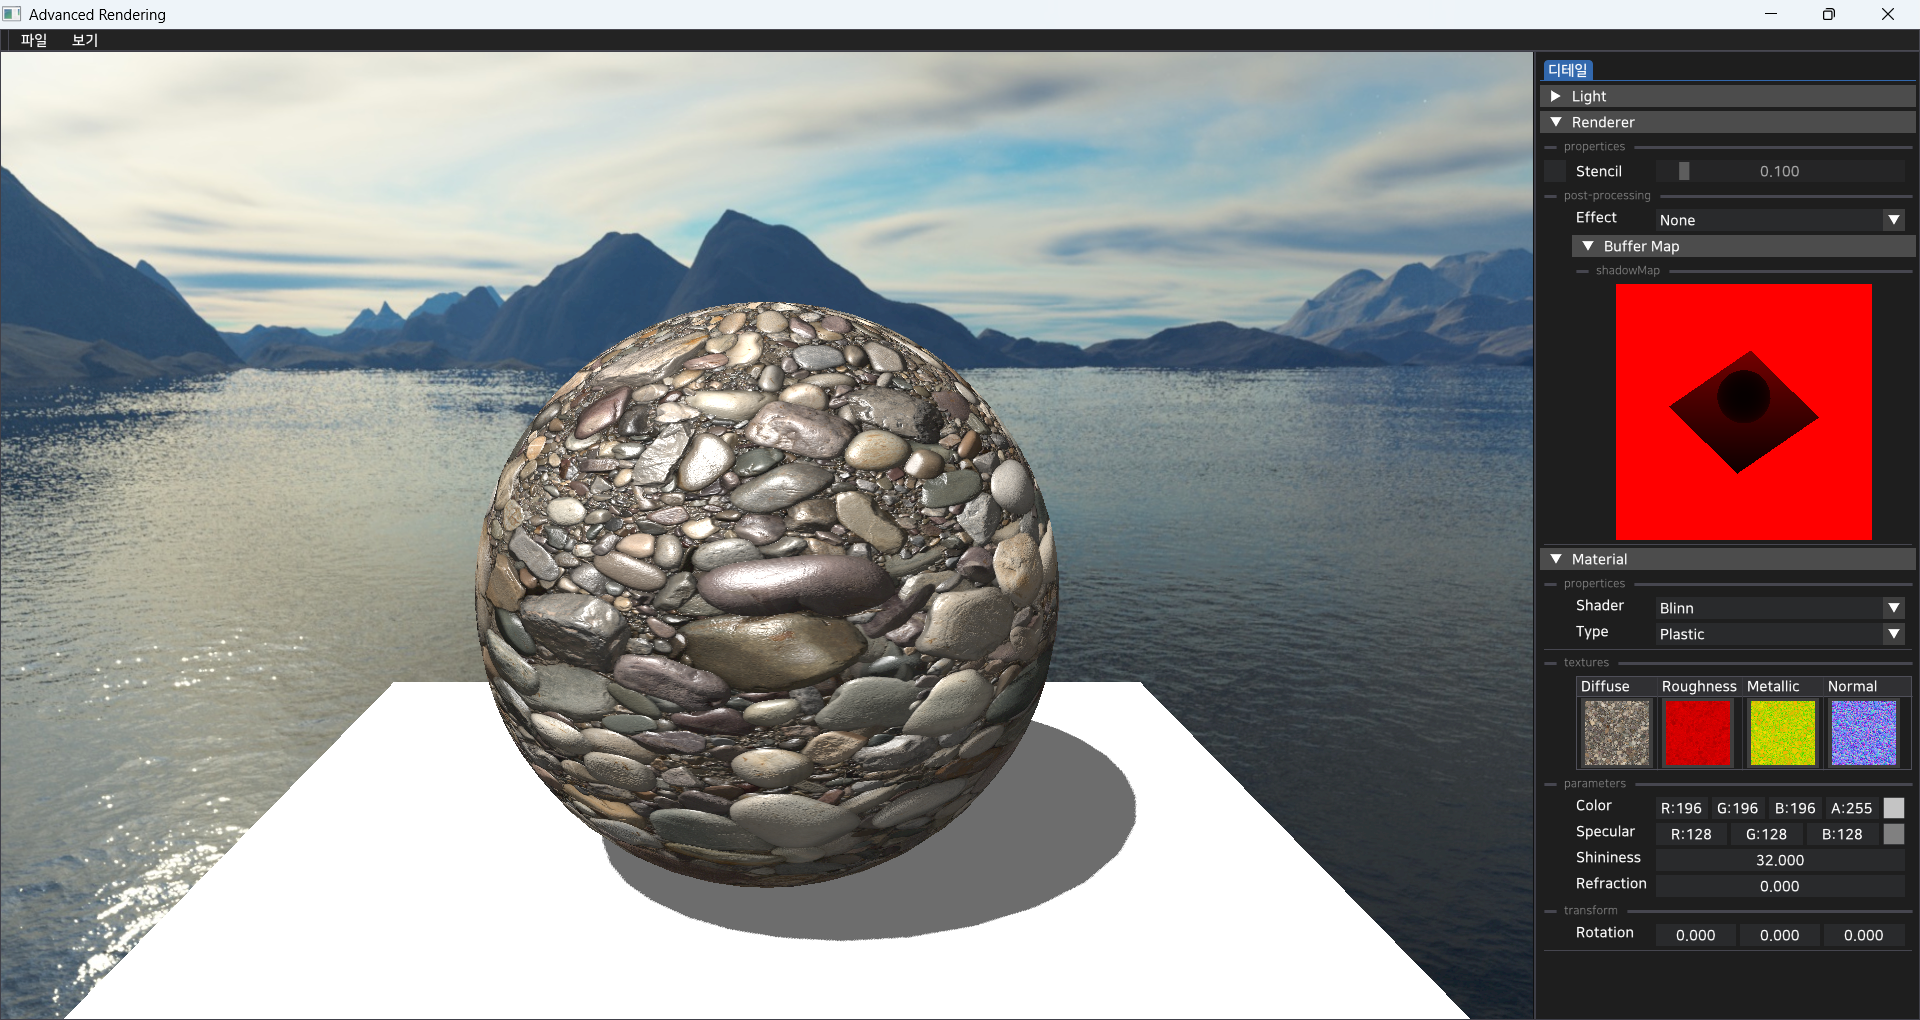
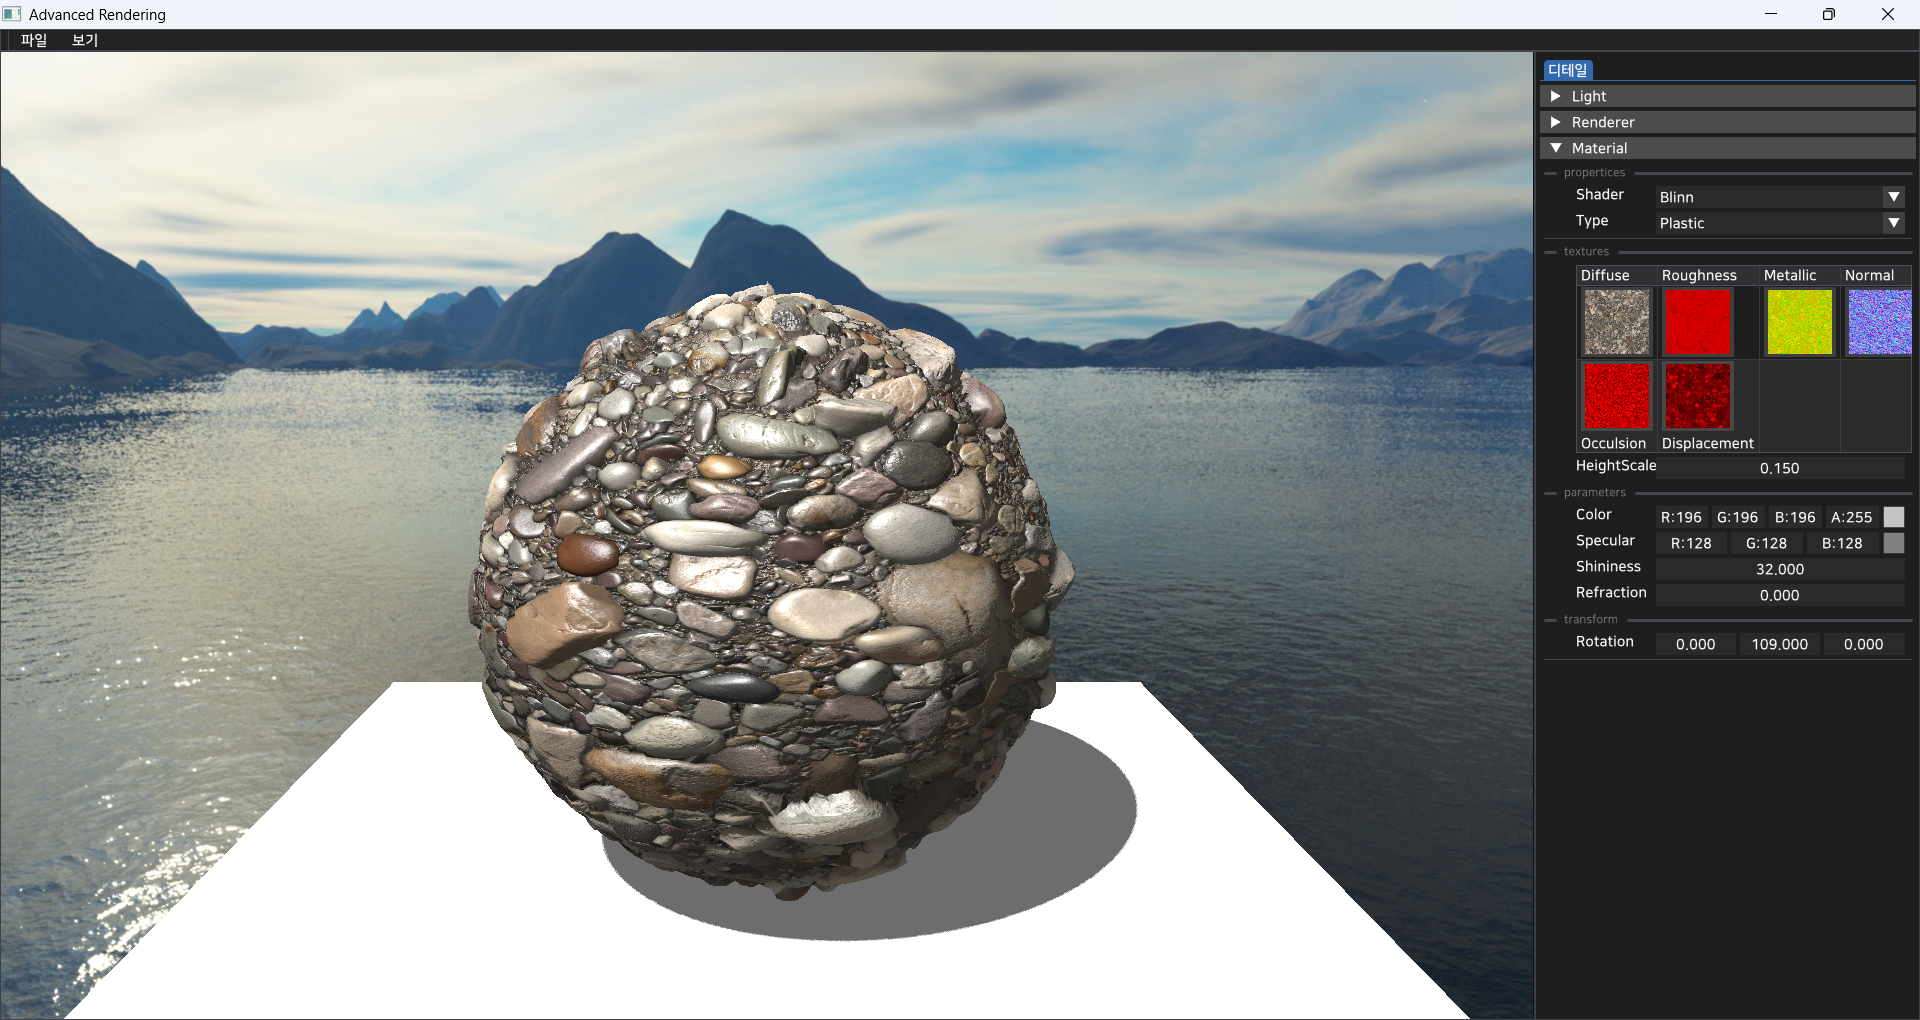
displacement 추가

Changed region(s): [[0.2188, 0.2735, 0.5625, 0.8814], [0.7812, 0.1216, 1.0, 0.9422], [0.9688, 0.9118, 1.0, 0.9422]]

diff --git a/src/core/private/editor.cpp b/src/core/private/editor.cpp
@@ -606,6 +606,21 @@ void Editor::CreateRightPanel()
                         ImGui::ImageButton("nolTexButton", parameter->normalTexture->GetID(), ImVec2(64,64));
                     else
                         ImGui::ImageButton("nolTexButton", nullptr, ImVec2(64,64));
+                    ImGui::TableNextRow();
+                    ImGui::TableSetColumnIndex(0);
+                    if (parameter->aoTexture != nullptr)
+                        ImGui::ImageButton("aoTexButton", parameter->aoTexture->GetID(), ImVec2(64,64));
+                    else
+                        ImGui::ImageButton("aoTexButton", nullptr, ImVec2(64,64));
+                    ImGui::Text("Occulsion");
+                    ImGui::TableSetColumnIndex(1);
+                    if (parameter->dispTexture != nullptr)
+                        ImGui::ImageButton("dispTexButton", parameter->dispTexture->GetID(), ImVec2(64,64));
+                    else
+                        ImGui::ImageButton("dispTexButton", nullptr, ImVec2(64,64));
+                    ImGui::Text("Displacement");
+
+
                     ImGui::EndTable();
 
                     ImGui::SetCursorPosX(40.0f);

diff --git a/src/resource/private/resourceManager.cpp b/src/resource/private/resourceManager.cpp
@@ -3,7 +3,7 @@
 ResourceManager::ResourceManager()
 {
     //create StandardMesh
-    auto sphere = std::make_unique<ShpereMesh>(32,32,1.0f);
+    auto sphere = std::make_unique<ShpereMesh>(128,128,1.0f);
     auto cube = std::make_unique<CubeMesh>();
     auto coneMesh = std::make_unique<ConeMesh>(3,3.0f,1.0f);
     auto cylinderMesh = std::make_unique<CylinderMesh>(32, 2.0f, 2.0f);
@@ -112,7 +112,7 @@ ResourceManager::ResourceManager()
     IMaterial* ptrMaterial = standardMaterial.get();
     materials.emplace("standardMaterial", std::move(standardMaterial));
     OpenGLMaterial* mat = static_cast<OpenGLMaterial*>(ptrMaterial);
-    mat->AddTexture(ptrbrickDiffTexture, 1);
+    mat->AddTexture(ptrgangesDiffTexture, 1);
     mat->AddTexture(ptrgangesroughTexture, 2);
     mat->AddTexture(ptrgangesarmTexture, 3);
     mat->AddTexture(ptrgangesnorTexture, 4);

diff --git a/src/renderer/public/material.hpp b/src/renderer/public/material.hpp
@@ -40,7 +40,7 @@ struct MaterialParameter
     glm::vec3 stencilColor{0.1f, 1.0f, 0.05f};
     float stencilOutline = 0.1f;
     //dis
-    float heightScale = 0.01f;
+    float heightScale = 0.15f;
 };
 
 class IMaterial
